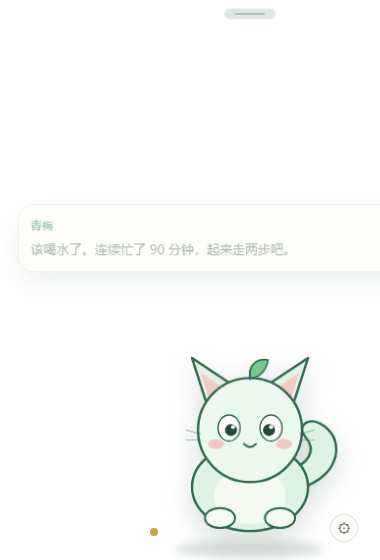
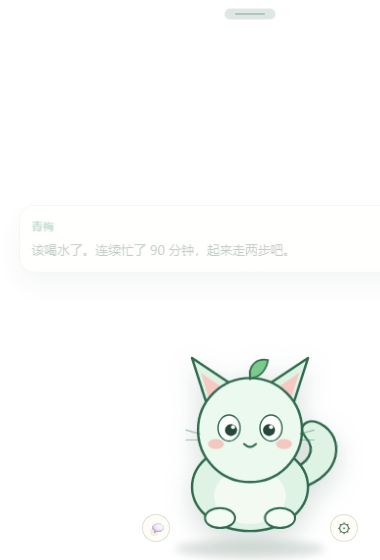
feat(desktop): 参考大肥鱼桌宠补齐交互
- 整只拖拽（点击/拖拽区分）、单击随机回应、双击喂饭爱心
- 闲置 90 秒打盹、鼠标靠近倾斜、托盘显示/隐藏
- 修复 HTML 插入错位与 package.json；气泡/字体/焦点细节
- 测试 367 全绿

diff --git a/qingmei/apps/desktop/renderer/style.css b/qingmei/apps/desktop/renderer/style.css
@@ -641,3 +641,111 @@ input {
 [hidden] {
   display: none !important;
 }
+
+.chat-button {
+  position: absolute;
+  left: 12px;
+  bottom: 18px;
+  width: 28px;
+  height: 28px;
+  border-radius: 50%;
+  border: 1px solid var(--line);
+  background: rgba(255, 253, 246, 0.85);
+  cursor: pointer;
+  z-index: 12;
+  -webkit-app-region: no-drag;
+  line-height: 1;
+  font-size: 13px;
+}
+
+.chat-button:hover {
+  border-color: var(--accent);
+}
+
+.zzz {
+  display: none;
+  position: absolute;
+  right: 34px;
+  top: 34px;
+  z-index: 9;
+  font-size: 18px;
+  font-weight: 700;
+  color: rgba(47, 107, 79, 0.55);
+  opacity: 0;
+  visibility: hidden;
+  pointer-events: none;
+  letter-spacing: 6px;
+}
+
+#app[data-state="sleeping"] .zzz {
+  display: block;
+  visibility: visible;
+  opacity: 1;
+  animation: zzz-float 2.4s ease-in-out infinite;
+}
+
+#app[data-state="sleeping"] .eye {
+  animation: none;
+  transform: scaleY(0.08);
+  transform-origin: center;
+  transition: transform 300ms ease;
+}
+
+#app[data-state="sleeping"] .mouth {
+  d: path("M116 116 Q120 112 124 116");
+}
+
+.hearts {
+  position: absolute;
+  inset: 0;
+  z-index: 11;
+  pointer-events: none;
+  overflow: visible;
+}
+
+.heart {
+  position: absolute;
+  left: 50%;
+  bottom: 190px;
+  font-size: 16px;
+  animation: heart-float 1.1s ease-out forwards;
+}
+
+#pet-stage {
+  transform: rotate(var(--lean, 0deg)) translateX(var(--lean-x, 0px));
+  transition: transform 140ms ease-out;
+}
+
+#app[data-dragging="true"] .pet {
+  cursor: grabbing;
+}
+
+@keyframes zzz-float {
+  0%,
+  100% {
+    transform: translateY(0);
+    opacity: 0.45;
+  }
+  50% {
+    transform: translateY(-6px);
+    opacity: 0.8;
+  }
+}
+
+@keyframes heart-float {
+  0% {
+    transform: translate(-50%, 0) scale(0.7);
+    opacity: 0;
+  }
+  20% {
+    opacity: 1;
+  }
+  100% {
+    transform: translate(calc(-50% + var(--drift, 0px)), -90px) scale(1.15);
+    opacity: 0;
+  }
+}
+
+.pet:focus:not(:focus-visible) {
+  outline: none;
+}

diff --git a/qingmei/apps/desktop/renderer/index.html b/qingmei/apps/desktop/renderer/index.html
@@ -84,11 +84,14 @@
             <ellipse cx="150" cy="188" rx="15" ry="10" />
           </g>
         </svg>
+        <button id="chat-button" class="chat-button" type="button" aria-label="聊天">💬</button>
         <button id="settings-button" class="settings-button" type="button" aria-label="设置">⚙</button>
+        <div id="zzz" class="zzz" aria-hidden="true">z z</div>
+        <div id="hearts" class="hearts" aria-hidden="true"></div>
         <span id="status-dot" class="status-dot offline" title="未连接"></span>
       </div>
 
-      <p id="hint" class="hint">点我聊天 · 右键菜单 · 拖动顶部移动</p>
+      <p id="hint" class="hint">点我摸摸 · 双击喂饭 · 💬 聊天 · 拖哪停哪</p>
     </div>
 
     <div id="settings-modal" class="settings-modal" hidden>

diff --git a/qingmei/apps/desktop/README.md b/qingmei/apps/desktop/README.md
@@ -15,13 +15,13 @@ pnpm --filter @qingmei/desktop start
 
 首次启动会弹设置：
 
-- **服务器地址**：例如 `http://139.155.78.241:7410`（本机服务用 `http://127.0.0.1:7410`）
+- **服务器地址**：生产用 `https://139.155.78.241:8710`（nginx）；本机服务用 `http://127.0.0.1:7410`
 - **访问令牌**：和 Web 面板同一个 `QM_TOKEN`
 
 也可以用环境变量跳过首次输入：
 
 ```bash
-QM_SERVER_URL=http://127.0.0.1:7410 QM_TOKEN=... pnpm --filter @qingmei/desktop start
+QM_SERVER_URL=https://139.155.78.241:8710 QM_TOKEN=... pnpm --filter @qingmei/desktop start
 ```
 
 令牌优先用 Electron 的 `safeStorage`（Windows DPAPI）加密存到用户数据目录；系统不支持时退化为明文，
